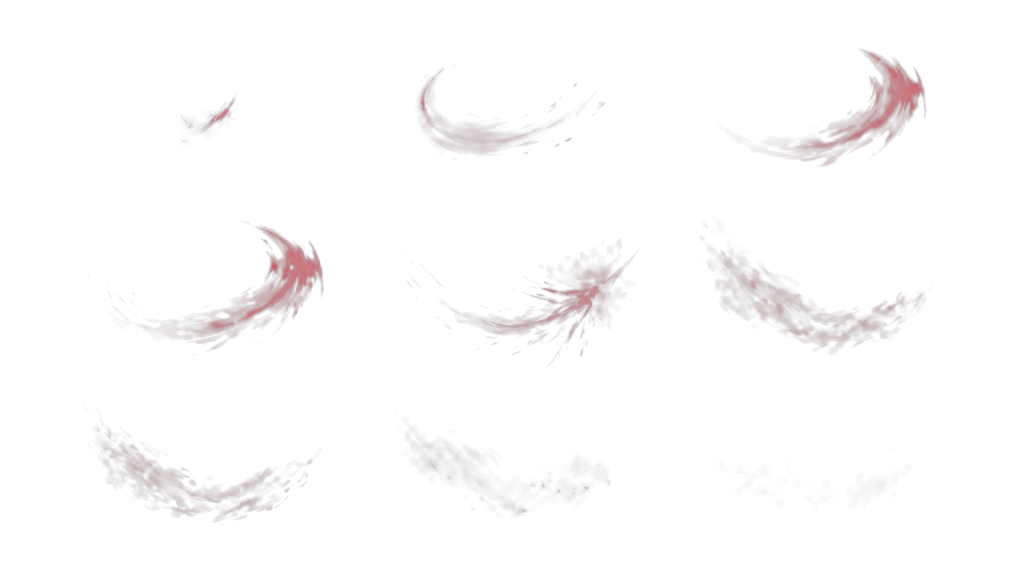
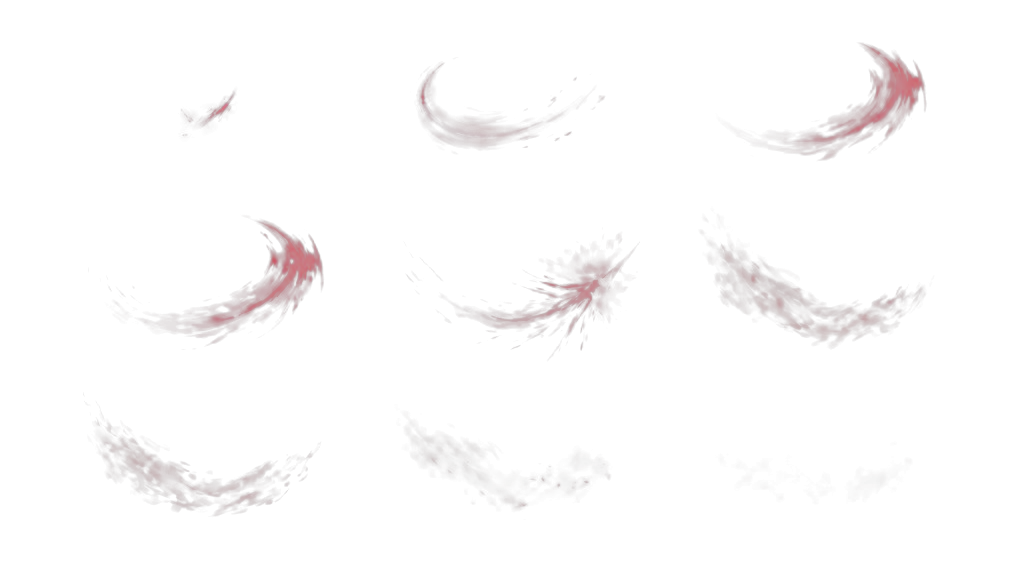
Fix 2D spell origins, AoE Meteor/Vortex alignment, shield/slash sheet centering, and torso VFX anchors

diff --git a/lib/features/combat_spatial/spatial_battle_screen.dart b/lib/features/combat_spatial/spatial_battle_screen.dart
@@ -267,6 +267,7 @@ class _SpatialBattleScreenState extends State<SpatialBattleScreen> with TickerPr
   int? _activeFireBarrageMs;
   String _fireBarrageAssetPath = 'assets/images/Spells/meteor storm.png';
   List<Alignment> _fireBarrageTargetAlignments = [];
+  List<String> _fireBarrageTargetIds = [];
   bool? _timelineExpandedOverride;
   CrucibleSkillNode? _hoveredSkillNode;
   String? _activeSynergyBannerText;
@@ -815,6 +816,7 @@ class _SpatialBattleScreenState extends State<SpatialBattleScreen> with TickerPr
         _fireBarrageAssetPath = useMoltenVortex
             ? 'assets/images/Spells/vortex of molten.png'
             : 'assets/images/Spells/meteor storm.png';
+        _fireBarrageTargetIds = hitIds.toList();
         _fireBarrageTargetAlignments = alignments.isNotEmpty
             ? alignments
             : const [Alignment(0.38, 0.05)];
@@ -824,6 +826,7 @@ class _SpatialBattleScreenState extends State<SpatialBattleScreen> with TickerPr
           if (mounted && _activeFireBarrageMs == impactNowMs) {
             setState(() {
               _activeFireBarrageMs = null;
+              _fireBarrageTargetIds = [];
             });
           }
         });
@@ -1144,12 +1147,16 @@ class _SpatialBattleScreenState extends State<SpatialBattleScreen> with TickerPr
           }
 
           // Trigger independent 9-frame slash/shield sheet on impacted targets
+          // Exclude offensive Shield Bash / Shield Slam strikes so stunned enemies show a hit slash, not a defensive shield!
           if (!event.isHeal || isEnemyTargetWithLifesteal) {
-            final String slashSheet = (impactSkillName.contains('Aegis') ||
-                    impactSkillName.contains('Shield') ||
+            final bool isDefensiveShieldSkill = !impactSkillName.contains('Bash') &&
+                !impactSkillName.contains('Slam') &&
+                (impactSkillName.contains('Aegis') ||
                     impactSkillName.contains('Phalanx') ||
                     impactSkillName.contains('Bulwark') ||
-                    impactSkillName.contains('Block'))
+                    impactSkillName.contains('Bastion') ||
+                    impactSkillName.contains('Block'));
+            final String slashSheet = isDefensiveShieldSkill
                 ? 'assets/animations/vfx/fire_shield_sheet.png'
                 : 'assets/animations/vfx/crimson_slash_sheet.png';
             final Set<String> slashIds = {event.targetId, ...event.secondaryTargetHits.keys};
@@ -2166,23 +2173,23 @@ class _SpatialBattleScreenState extends State<SpatialBattleScreen> with TickerPr
                                         child: ValueListenableBuilder<int>(
                                           valueListenable: _visualFrameTick,
                                           builder: (context, _, __) {
-                                            if (_activeVfx.isEmpty && _groundRipples.isEmpty) {
+                                            if (_activeVfx.isEmpty && _groundRipples.isEmpty && _activeFireBarrageMs == null) {
                                               return const SizedBox.shrink();
                                             }
                                             final int nowMs = DateTime.now().millisecondsSinceEpoch;
                                             final allUnits = [..._engine.playerUnits, ..._engine.enemyUnits];
+                                            Offset? resolveById(String? unitId) {
+                                              if (unitId == null) return null;
+                                              final u = allUnits.where((x) => x.id == unitId).firstOrNull;
+                                              if (u != null) {
+                                                final pt = resolveUnitCenter2D(u);
+                                                _lastKnown2DUnitOffsets[u.id] = pt;
+                                                return pt;
+                                              }
+                                              return _lastKnown2DUnitOffsets[unitId];
+                                            }
                                             final List<_CombatVfx> vfx2D = [];
                                             for (final vfx in _activeVfx) {
-                                              Offset? resolveById(String? unitId) {
-                                                if (unitId == null) return null;
-                                                final u = allUnits.where((x) => x.id == unitId).firstOrNull;
-                                                if (u != null) {
-                                                  final pt = resolveUnitCenter2D(u);
-                                                  _lastKnown2DUnitOffsets[u.id] = pt;
-                                                  return pt;
-                                                }
-                                                return _lastKnown2DUnitOffsets[unitId];
-                                              }
                                               final startPt = resolveById(vfx.sourceUnitId);
                                               final targetPt = resolveById(vfx.targetUnitId);
                                               if (startPt == null && targetPt == null) continue;
@@ -2192,15 +2199,16 @@ class _SpatialBattleScreenState extends State<SpatialBattleScreen> with TickerPr
                                             }
                                             final List<_GroundShockwaveRipple> ripples2D = [];
                                             for (final r in _groundRipples) {
-                                              Offset? originPt;
-                                              if (r.targetUnitId != null) {
-                                                final u = allUnits.where((x) => x.id == r.targetUnitId).firstOrNull;
-                                                originPt = u != null
-                                                    ? resolveUnitCenter2D(u)
-                                                    : _lastKnown2DUnitOffsets[r.targetUnitId!];
-                                              }
+                                              final originPt = resolveById(r.targetUnitId);
                                               if (originPt == null) continue;
                                               ripples2D.add(r.copyWithOrigin(originPt));
+                                            }
+                                            final List<Offset> barrageOffsets2D = [];
+                                            if (_activeFireBarrageMs != null) {
+                                              for (final tid in _fireBarrageTargetIds) {
+                                                final pt = resolveById(tid);
+                                                if (pt != null) barrageOffsets2D.add(pt);
+                                              }
                                             }
                                             return Stack(
                                               clipBehavior: Clip.none,
@@ -2223,6 +2231,14 @@ class _SpatialBattleScreenState extends State<SpatialBattleScreen> with TickerPr
                                                       ),
                                                     ),
                                                   ),
+                                                if (_activeFireBarrageMs != null && barrageOffsets2D.isNotEmpty)
+                                                  Positioned.fill(
+                                                    child: _StaggeredMeteorBarrage(
+                                                      key: ValueKey('fire_barrage_2d_$_activeFireBarrageMs'),
+                                                      targetOffsets: barrageOffsets2D,
+                                                      assetPath: _fireBarrageAssetPath,
+                                                    ),
+                                                  ),
                                               ],
                                             );
                                           },
@@ -2240,8 +2256,8 @@ class _SpatialBattleScreenState extends State<SpatialBattleScreen> with TickerPr
                     },
                   ),
 
-                  // AoE Fire Barrage: Per-target compact 3x4 Meteor Sprite-Sheet bursts over each hit enemy
-                  if (_activeFireBarrageMs != null)
+                  // AoE Fire Barrage fallback for 2.5D Isometric mode (2D mode renders directly inside buildVfxOverlay at exact unit centers!)
+                  if (_activeFireBarrageMs != null && !_is2DGridView)
                     Positioned.fill(
                       child: IgnorePointer(
                         child: _StaggeredMeteorBarrage(
@@ -7068,9 +7084,9 @@ class _SpatialBattleScreenState extends State<SpatialBattleScreen> with TickerPr
                                       : (_engine.skillTreeState.activeClass == SculptorClassArchetype.bloodAlchemist
                                           ? SpriteSheetAnimation(
                                               assetPath: 'assets/images/Ash sculpter/blood alchemist idle.png',
-                                              columns: 3,
-                                              rows: 2,
-                                              totalFrames: 6,
+                                              columns: 4,
+                                              rows: 3,
+                                              totalFrames: 12,
                                               duration: const Duration(milliseconds: 2400),
                                               loop: true,
                                               fit: BoxFit.contain,
@@ -7434,10 +7450,12 @@ class _SpatialBattleScreenState extends State<SpatialBattleScreen> with TickerPr
               ),
             ),
 
-            // Aegis Shield Cast Burst (Brief 650ms impact pulse when barrier applied; never encases or hides unit!)
-            if (unit.aegisShield > 0)
+            // Aegis Shield Cast Burst (Centered directly on unit torso during live combat; suppressed in pre-battle)
+            if (!_engine.isPreBattlePhase && unit.aegisShield > 0)
               Positioned(
-                bottom: 4,
+                bottom: visuallyDowned ? 2 : 6,
+                width: modelWidth,
+                height: modelHeight,
                 child: IgnorePointer(
                   child: Builder(
                     builder: (context) {
@@ -7445,17 +7463,20 @@ class _SpatialBattleScreenState extends State<SpatialBattleScreen> with TickerPr
                       final isInitialCasting = unit.shieldAppliedMs > 0 && (nowMs - unit.shieldAppliedMs) < 700;
                       if (!isInitialCasting) return const SizedBox.shrink();
 
-                      return SizedBox(
-                        width: (modelWidth * 1.15).clamp(80.0, 180.0),
-                        height: (modelHeight * 1.15).clamp(80.0, 180.0),
-                        child: SpriteSheetAnimation(
-                          assetPath: 'assets/animations/vfx/fire_shield_sheet.png',
-                          columns: 3,
-                          rows: 3,
-                          totalFrames: 9,
-                          duration: const Duration(milliseconds: 650),
-                          loop: false,
-                          fit: BoxFit.contain,
+                      final double shieldSize = (modelHeight * 0.95).clamp(72.0, 165.0);
+                      return Center(
+                        child: OverflowBox(
+                          maxWidth: shieldSize,
+                          maxHeight: shieldSize,
+                          child: SpriteSheetAnimation(
+                            assetPath: 'assets/animations/vfx/fire_shield_sheet.png',
+                            columns: 3,
+                            rows: 3,
+                            totalFrames: 9,
+                            duration: const Duration(milliseconds: 650),
+                            loop: false,
+                            fit: BoxFit.contain,
+                          ),
                         ),
                       );
                     },
@@ -7464,12 +7485,15 @@ class _SpatialBattleScreenState extends State<SpatialBattleScreen> with TickerPr
               ),
 
             if (_activeImpactSlashUnits.containsKey(unit.id))
-              Positioned.fill(
+              Positioned(
+                bottom: visuallyDowned ? 2 : 6,
+                width: modelWidth,
+                height: modelHeight,
                 child: IgnorePointer(
                   child: Center(
-                    child: SizedBox(
-                      width: isBoss ? bossSpanWidth * 1.8 : tileWidth * 2.3,
-                      height: isBoss ? (tileHeight * 3.4) : (tileHeight * 2.9),
+                    child: OverflowBox(
+                      maxWidth: isBoss ? bossSpanWidth * 1.35 : modelWidth * 1.45,
+                      maxHeight: isBoss ? modelHeight * 1.25 : modelHeight * 1.35,
                       child: SpriteSheetAnimation(
                         assetPath: _activeImpactSlashUnits[unit.id]!,
                         columns: 3,

diff --git a/lib/features/combat_spatial/widgets/spatial_battle_vfx_painters.dart b/lib/features/combat_spatial/widgets/spatial_battle_vfx_painters.dart
@@ -1531,11 +1531,13 @@ class SculptorDisciplineVisuals {
 
 class _StaggeredMeteorBarrage extends StatefulWidget {
   final List<Alignment> targetAlignments;
+  final List<Offset>? targetOffsets;
   final String assetPath;
 
   const _StaggeredMeteorBarrage({
     super.key,
-    required this.targetAlignments,
+    this.targetAlignments = const [],
+    this.targetOffsets,
     this.assetPath = 'assets/images/Spells/meteor storm.png',
   });
 
@@ -1550,7 +1552,7 @@ class _StaggeredMeteorBarrageState extends State<_StaggeredMeteorBarrage> {
   @override
   void initState() {
     super.initState();
-    final count = widget.targetAlignments.length;
+    final count = widget.targetOffsets?.length ?? widget.targetAlignments.length;
     _active = List<bool>.generate(count, (i) => i == 0);
     for (int i = 1; i < count; i++) {
       _timers.add(Timer(Duration(milliseconds: i * 140), () {
@@ -1571,10 +1573,36 @@ class _StaggeredMeteorBarrageState extends State<_StaggeredMeteorBarrage> {
 
   @override
   Widget build(BuildContext context) {
+    final offsets = widget.targetOffsets;
+    if (offsets != null && offsets.isNotEmpty) {
+      return Stack(
+        clipBehavior: Clip.none,
+        children: [
+          for (int i = 0; i < offsets.length; i++)
+            if (i < _active.length && _active[i])
+              Positioned(
+                left: offsets[i].dx - 92.5,
+                top: offsets[i].dy - 82.0,
+                width: 185,
+                height: 150,
+                child: SpriteSheetAnimation(
+                  key: ValueKey('meteor_burst_2d_${widget.assetPath}_$i'),
+                  assetPath: widget.assetPath,
+                  columns: 3,
+                  rows: 4,
+                  totalFrames: 12,
+                  duration: const Duration(milliseconds: 900),
+                  loop: false,
+                  fit: BoxFit.contain,
+                ),
+              ),
+        ],
+      );
+    }
     return Stack(
       children: [
         for (int i = 0; i < widget.targetAlignments.length; i++)
-          if (_active[i])
+          if (i < _active.length && _active[i])
             Align(
               alignment: widget.targetAlignments[i],
               child: SizedBox(

diff --git a/lib/features/combat_spatial/rank_and_rite_2d_battlefield.dart b/lib/features/combat_spatial/rank_and_rite_2d_battlefield.dart
@@ -68,7 +68,9 @@ class RankAndRite2DBattlefield extends StatelessWidget {
   });
 
   Offset _resolveUnitCenter2D(CombatUnitState unit, double clashWidth) {
-    final double torsoLiftY = -tileHeight * 0.14;
+    // Standing models are ~1.62 * tileHeight tall anchored at bottom: 6,
+    // so the unit's torso / spell-origin center sits at -0.28 * tileHeight above tile midpoint.
+    final double torsoLiftY = -tileHeight * 0.28;
     if (unit.occupiedNodes.isEmpty) {
       final double fallbackX = unit.isPlayer
           ? (tileWidth * 1.5)
@@ -95,16 +97,21 @@ class RankAndRite2DBattlefield extends StatelessWidget {
   @override
   Widget build(BuildContext context) {
     final double clashWidth = (tileWidth * 0.38).clamp(32.0, 68.0);
+    final double boardWidth = (6 * tileWidth) + clashWidth;
+    final double boardHeight = 3 * tileHeight;
 
     return Container(
       padding: const EdgeInsets.symmetric(horizontal: 8, vertical: 4),
       decoration: const BoxDecoration(
         color: Colors.transparent,
       ),
-      child: Stack(
-        alignment: Alignment.center,
-        clipBehavior: Clip.none,
-        children: [
+      child: SizedBox(
+        width: boardWidth,
+        height: boardHeight,
+        child: Stack(
+          alignment: Alignment.center,
+          clipBehavior: Clip.none,
+          children: [
           Row(
             mainAxisSize: MainAxisSize.min,
             mainAxisAlignment: MainAxisAlignment.center,
@@ -147,7 +154,8 @@ class RankAndRite2DBattlefield extends StatelessWidget {
                 child: buildVfxOverlay!((unit) => _resolveUnitCenter2D(unit, clashWidth)),
               ),
             ),
-        ],
+          ],
+        ),
       ),
     );
   }
